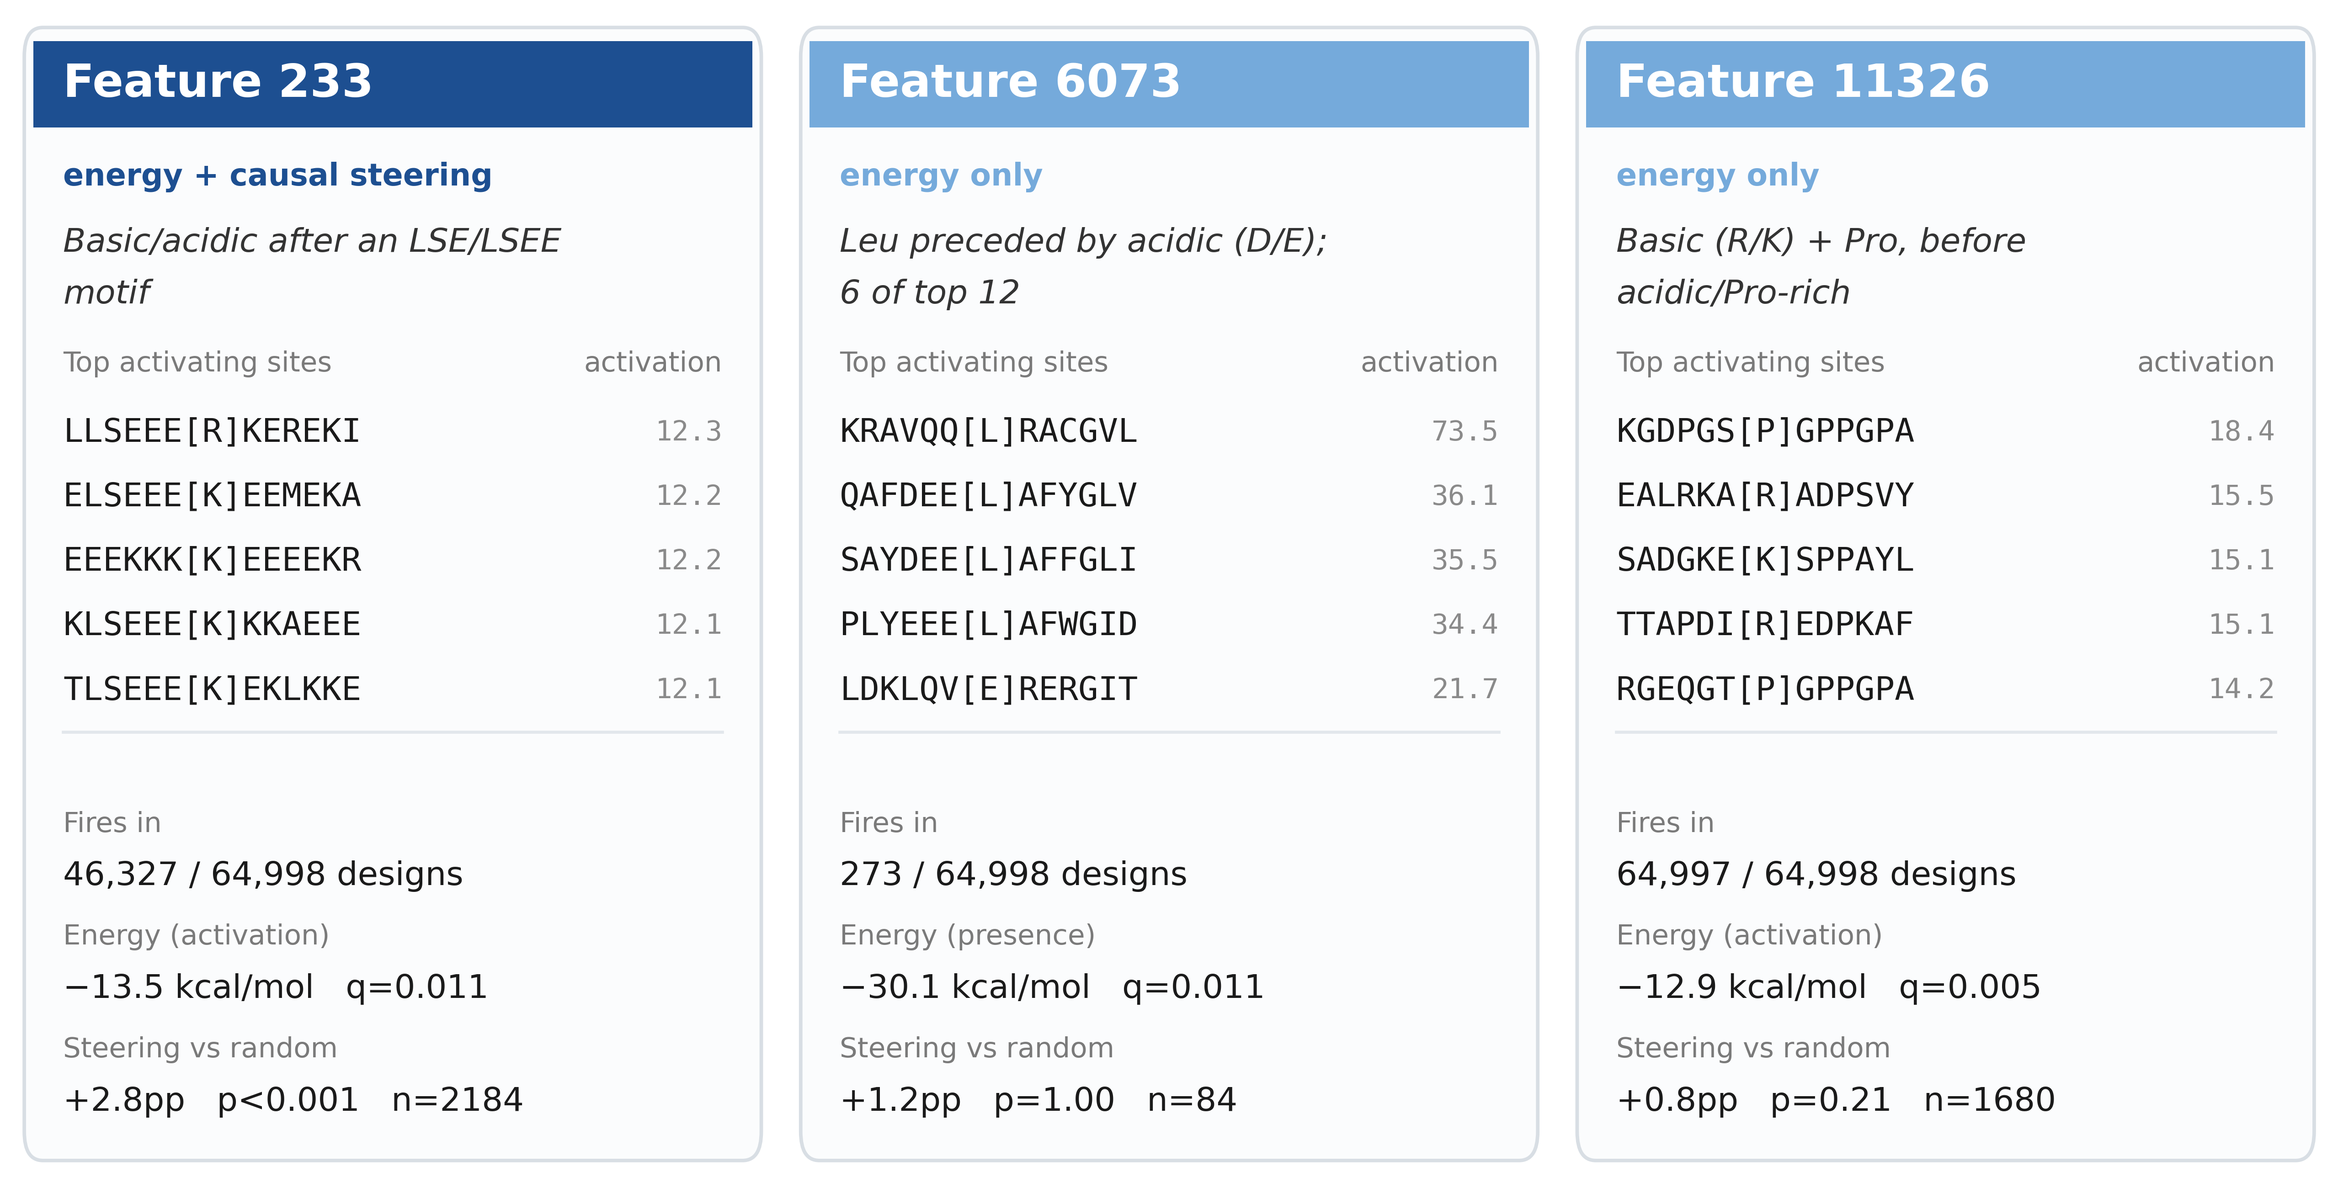
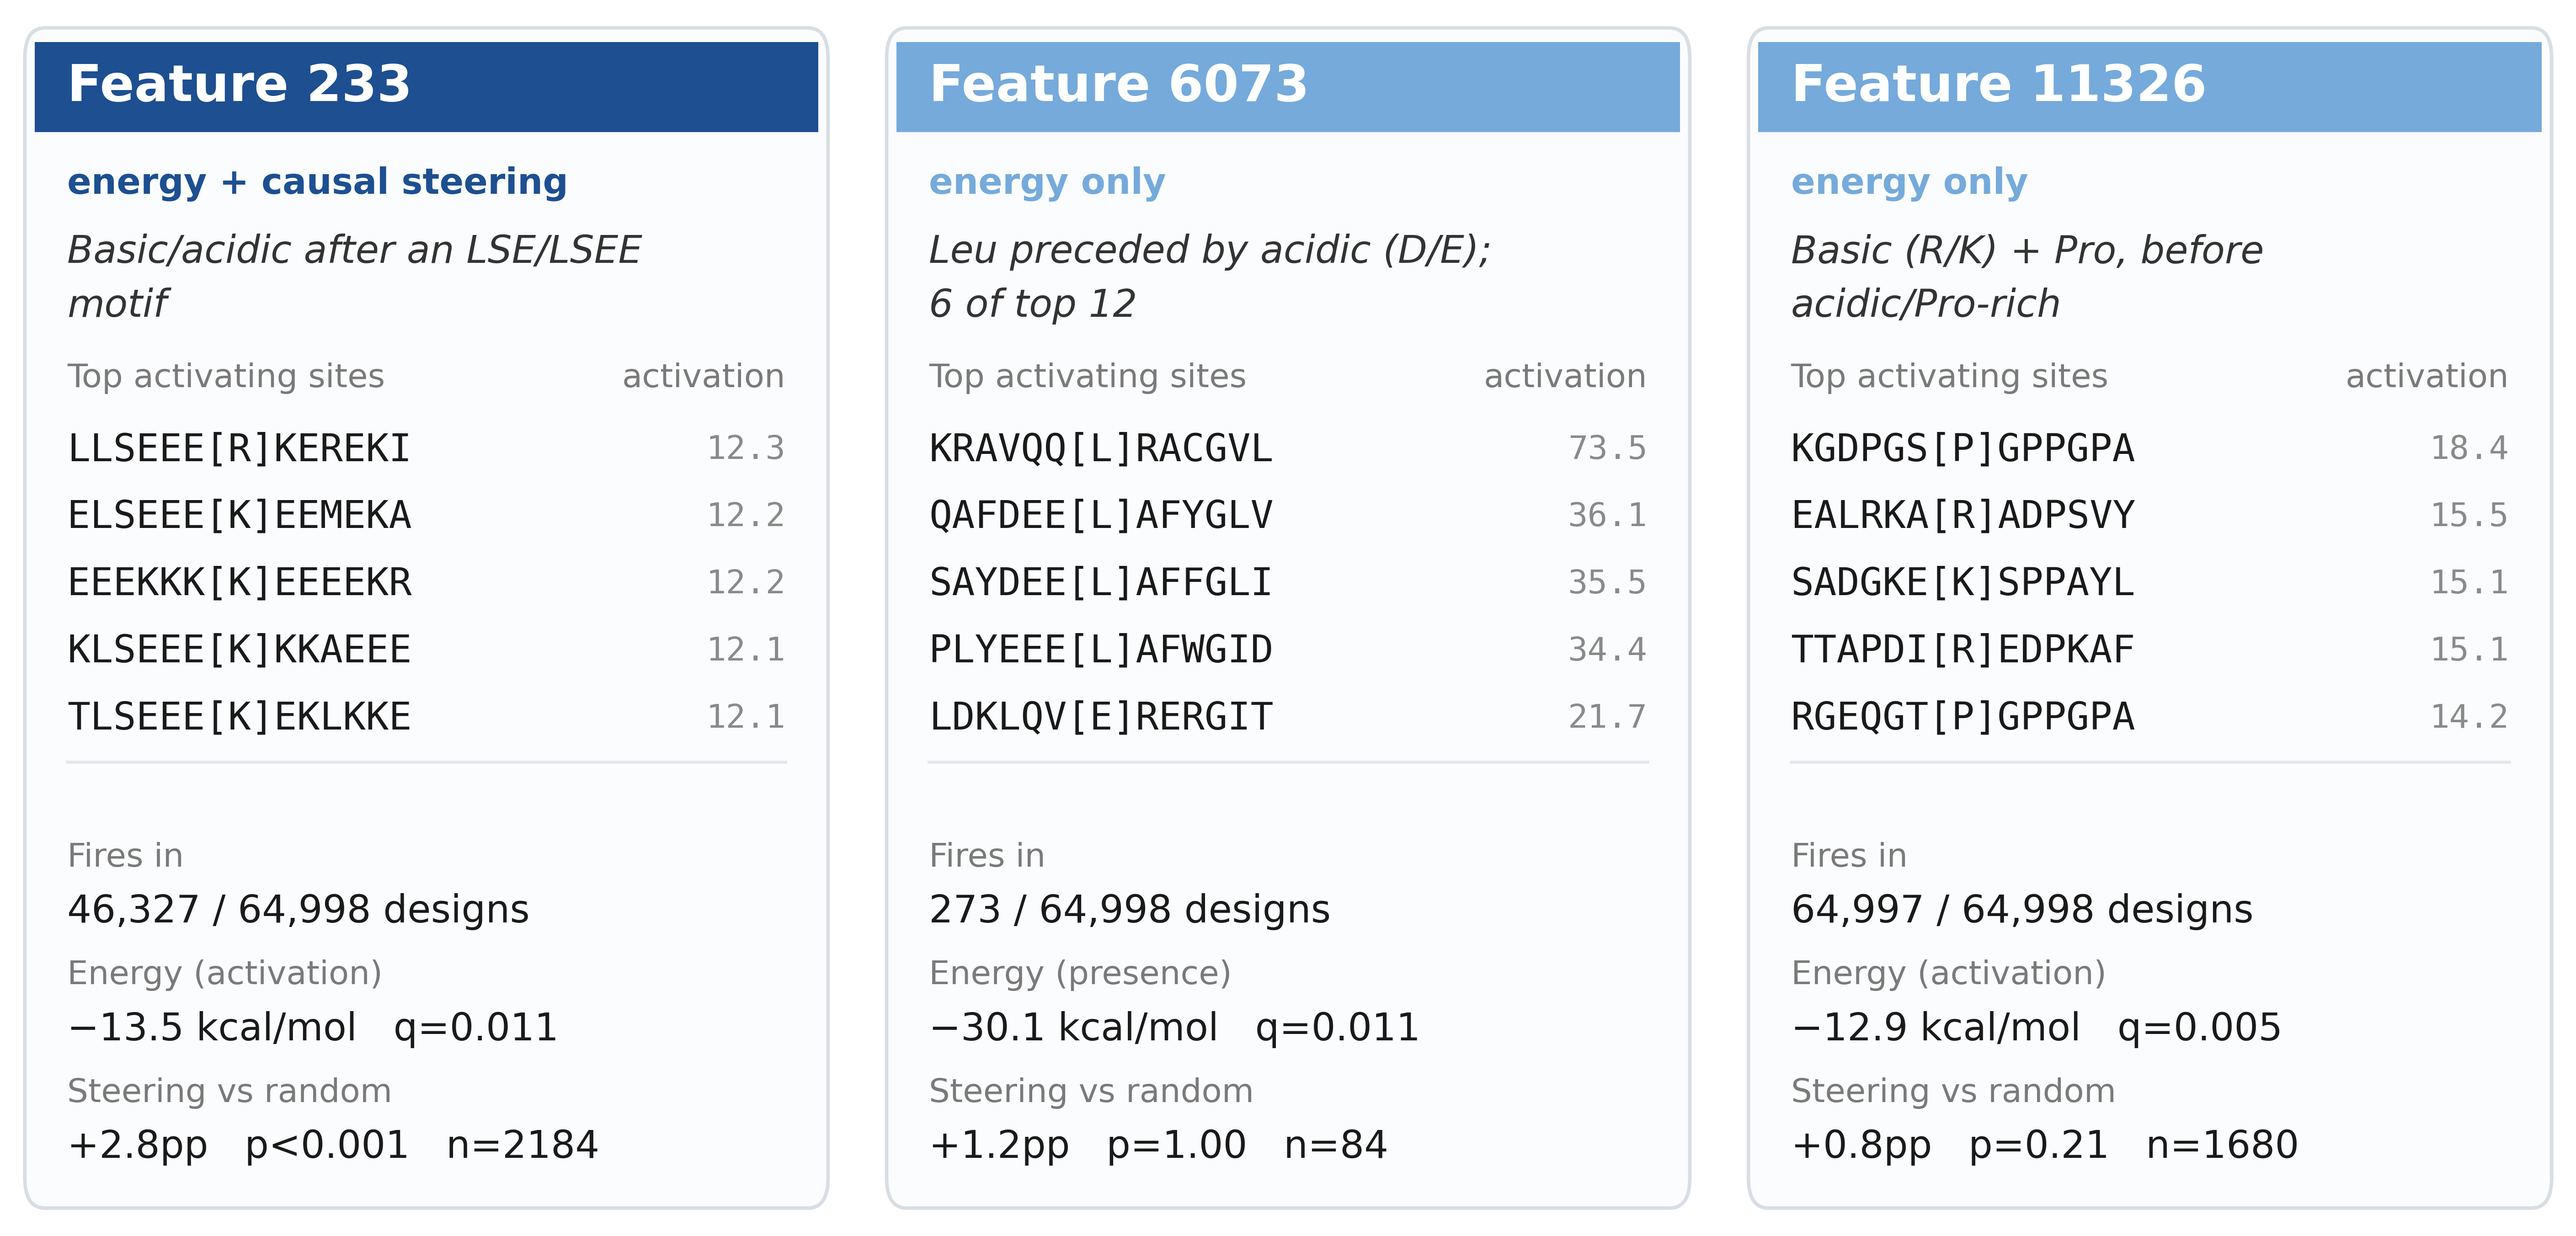
Default the feature cards to +2 text size
Renders at 14.1 x 6.8 in with no overflow.

diff --git a/scripts/plot_feature_cards_poster.py b/scripts/plot_feature_cards_poster.py
@@ -136,7 +136,7 @@ def main():
     ap.add_argument("--out-dir", default=DEFAULT_OUT_DIR)
     ap.add_argument("--stem", default="vilip1_feature_cards_poster")
     ap.add_argument("--dpi", type=int, default=400)
-    ap.add_argument("--font-bump", type=int, default=0,
+    ap.add_argument("--font-bump", type=int, default=2,
                     help="Add N points to every font size; the card widens to match.")
     args = ap.parse_args()
 
